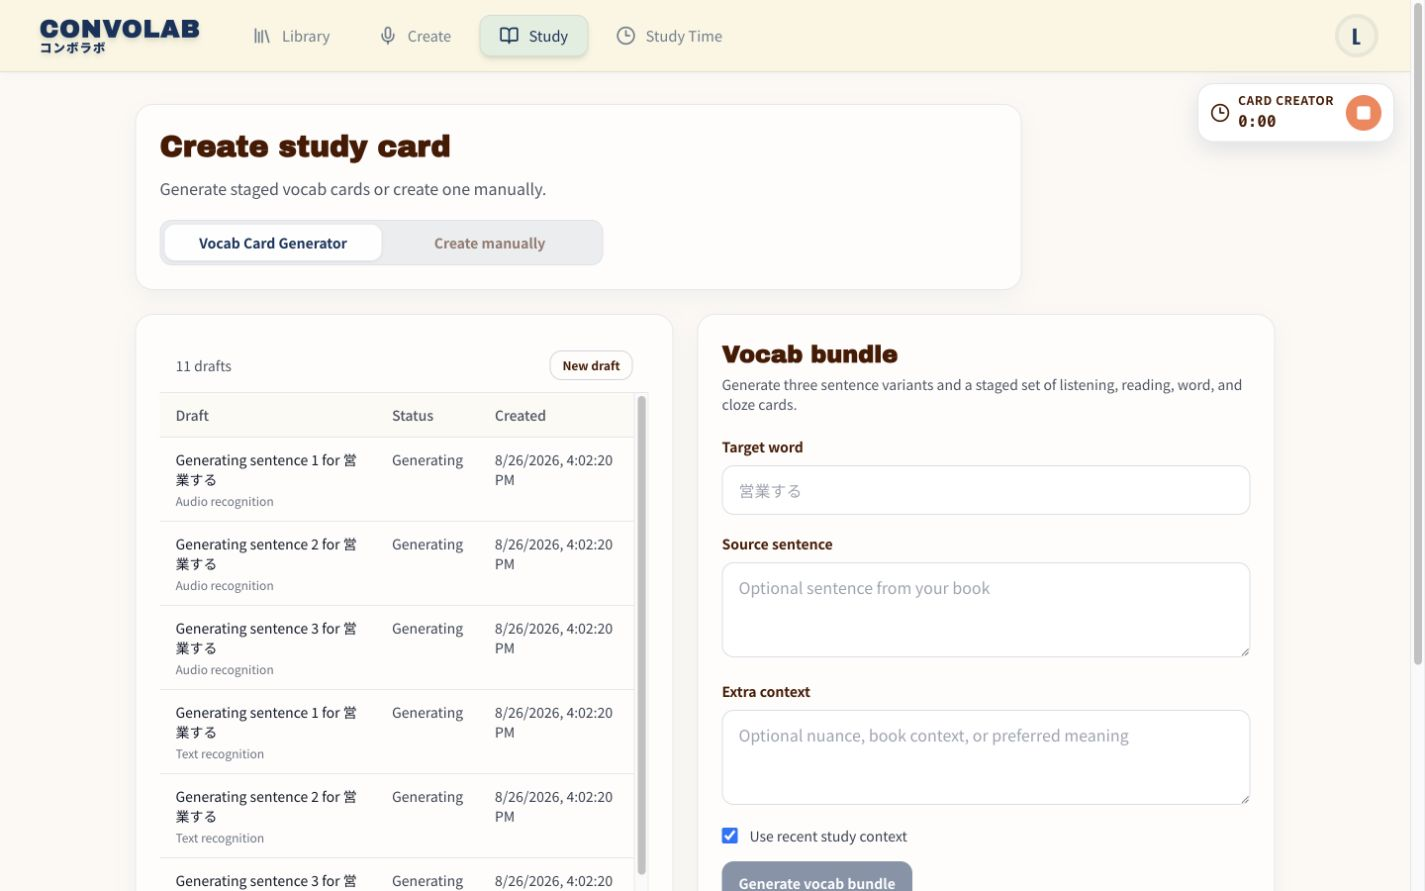
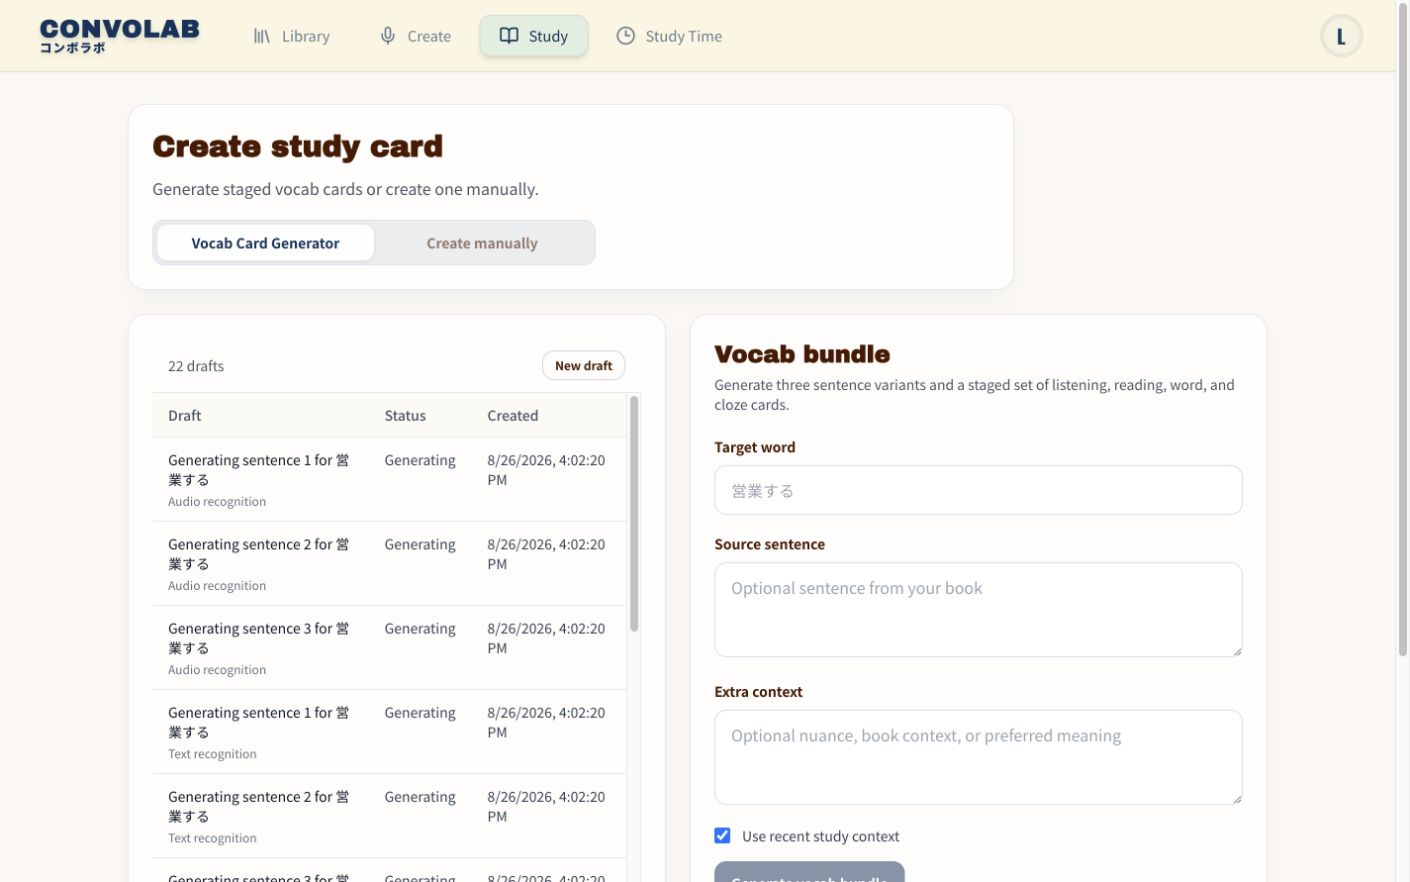
Hide card creation timer overlay

diff --git a/client/src/components/study/__tests__/ActiveStudyTimer.test.tsx b/client/src/components/study/__tests__/ActiveStudyTimer.test.tsx
@@ -1,16 +1,19 @@
 import { fireEvent, render, screen } from '@testing-library/react';
 import { MemoryRouter } from 'react-router-dom';
-import { describe, expect, it, vi } from 'vitest';
+import { beforeEach, describe, expect, it, vi } from 'vitest';
 
 import ActiveStudyTimer from '../ActiveStudyTimer';
 
-const { stopMock } = vi.hoisted(() => ({ stopMock: vi.fn() }));
+const { activityState, stopMock } = vi.hoisted(() => ({
+  activityState: { activity: 'card_review' },
+  stopMock: vi.fn(),
+}));
 
 vi.mock('../../../contexts/StudyActivityContext', () => ({
   useStudyActivityActions: () => ({ stop: stopMock }),
   useStudyActivityStatus: () => ({
     active: {
-      activity: 'card_review',
+      activity: activityState.activity,
       startedAt: '2026-07-28T15:00:00.000Z',
     },
     elapsedMs: 65_000,
@@ -18,6 +21,11 @@ vi.mock('../../../contexts/StudyActivityContext', () => ({
 }));
 
 describe('ActiveStudyTimer', () => {
+  beforeEach(() => {
+    activityState.activity = 'card_review';
+    stopMock.mockClear();
+  });
+
   it('renders elapsed time and stops the active session', () => {
     render(
       <MemoryRouter>
@@ -29,5 +37,18 @@ describe('ActiveStudyTimer', () => {
     expect(screen.getByText('Card review')).toBeInTheDocument();
     fireEvent.click(screen.getByRole('button', { name: 'Stop study timer' }));
     expect(stopMock).toHaveBeenCalledTimes(1);
+  });
+
+  it('does not show timer controls while card creation is tracked', () => {
+    activityState.activity = 'card_creation';
+
+    render(
+      <MemoryRouter>
+        <ActiveStudyTimer />
+      </MemoryRouter>
+    );
+
+    expect(screen.queryByText('1:05')).not.toBeInTheDocument();
+    expect(screen.queryByRole('button', { name: 'Stop study timer' })).not.toBeInTheDocument();
   });
 });

diff --git a/client/src/components/study/ActiveStudyTimer.tsx b/client/src/components/study/ActiveStudyTimer.tsx
@@ -28,7 +28,9 @@ const ActiveStudyTimer = () => {
   const { t } = useTranslation(['study']);
   const { active, elapsedMs } = useStudyActivityStatus();
   const { stop } = useStudyActivityActions();
-  if (!active) return null;
+  // Card creation is timed automatically, but the editor should remain focused
+  // and free of session controls while the user is composing a card.
+  if (!active || active.activity === 'card_creation') return null;
 
   return (
     <div className="active-study-timer fixed z-50 flex items-center gap-3 px-3 py-2">
